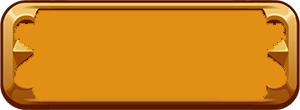
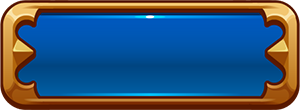
add pause menu

diff --git a/tank/src/scenes/pause-menu.ts b/tank/src/scenes/pause-menu.ts
@@ -1,5 +1,11 @@
 export class PauseMenu extends Phaser.Scene {
 
+    private background: Phaser.GameObjects.Image;
+    private contBtn: Phaser.GameObjects.Image;
+    private restartBtn: Phaser.GameObjects.Image;
+    private soundBtn: Phaser.GameObjects.Image;
+
+    private container: Phaser.GameObjects.Container;
     constructor() {
         super({
             key: 'PauseMenu'
@@ -7,5 +13,57 @@ export class PauseMenu extends Phaser.Scene {
     }
 
     create(): void {
+        this.createButtons();
+
+        this.createContainer();
+
+        this.createInputHandler();
+    }
+
+    createButtons() {
+        this.background = this.add.image(150, 0, 'back').setScale(2.5, 1.6);
+        this.contBtn = this.add.sprite(0, 0, 'continue').setInteractive();
+        this.restartBtn = this.add.sprite(150, 0, 'restart').setInteractive();
+        this.soundBtn = this.add.sprite(300, 0, 'sound').setInteractive();
+    }
+
+    createContainer() {
+        this.add.container(this.sys.canvas.width / 2 - 100, this.sys.canvas.height / 2, [this.background, this.contBtn, this.restartBtn, this.soundBtn])
+    }
+
+    createInputHandler() {
+        this.contBtn.on('pointerover', () => {
+            this.contBtn.setTint(0x76BA99);
+        });
+        this.contBtn.on('pointerout', () => {
+            this.contBtn.clearTint();
+        });
+        this.restartBtn.on('pointerover', () => {
+            this.restartBtn.setTint(0x76BA99);
+        });
+        this.restartBtn.on('pointerout', () => {
+            this.restartBtn.clearTint();
+        });
+        this.soundBtn.on('pointerover', () => {
+            this.soundBtn.setTint(0x76BA99);
+        });
+        this.soundBtn.on('pointerout', () => {
+            this.soundBtn.clearTint();
+        });
+
+
+
+        this.contBtn.on('pointerup', () => {
+            this.scene.resume('GameScene');
+            this.scene.stop();
+        })
+        this.restartBtn.on('pointerup', () => {
+            // this.scene.pause();
+            // this.scene.launch('PauseMenu');
+        })
+        this.soundBtn.on('pointerup', () => {
+            // this.scene.pause();
+            // this.scene.launch('PauseMenu');
+        })
     }
 }

diff --git a/tank/src/scenes/boot-scene.ts b/tank/src/scenes/boot-scene.ts
@@ -43,6 +43,10 @@ export class BootScene extends Phaser.Scene {
     this.load.pack('preload', './assets/pack.json', 'preload');
 
     this.load.image('pauseBtn', 'assets/images/pause.png');
+    this.load.image('continue', 'assets/images/continue.png');
+    this.load.image('restart', 'assets/images/restart.png');
+    this.load.image('sound', 'assets/images/sound.png');
+    this.load.image('back', 'assets/images/back.png');
 
   }
 

diff --git a/tank/src/scenes/game-scene.ts b/tank/src/scenes/game-scene.ts
@@ -88,7 +88,7 @@ export class GameScene extends Phaser.Scene {
     // Phaser.Display.Align.To.BottomRight(this.pauseBtn, this.scene.)
 
     this.pauseBtn.on('pointerover', () => {
-      this.pauseBtn.setTint(0xff0000);
+      this.pauseBtn.setTint(0x76BA99);
     });
     this.pauseBtn.on('pointerout', () => {
       this.pauseBtn.clearTint();

diff --git a/tank/src/config.ts b/tank/src/config.ts
@@ -20,7 +20,7 @@ export const GameConfig: Phaser.Types.Core.GameConfig = {
     default: 'arcade',
     arcade: {
       gravity: { y: 0 },
-      debug: true
+      debug: false
     }
   },
   backgroundColor: '#000000',
